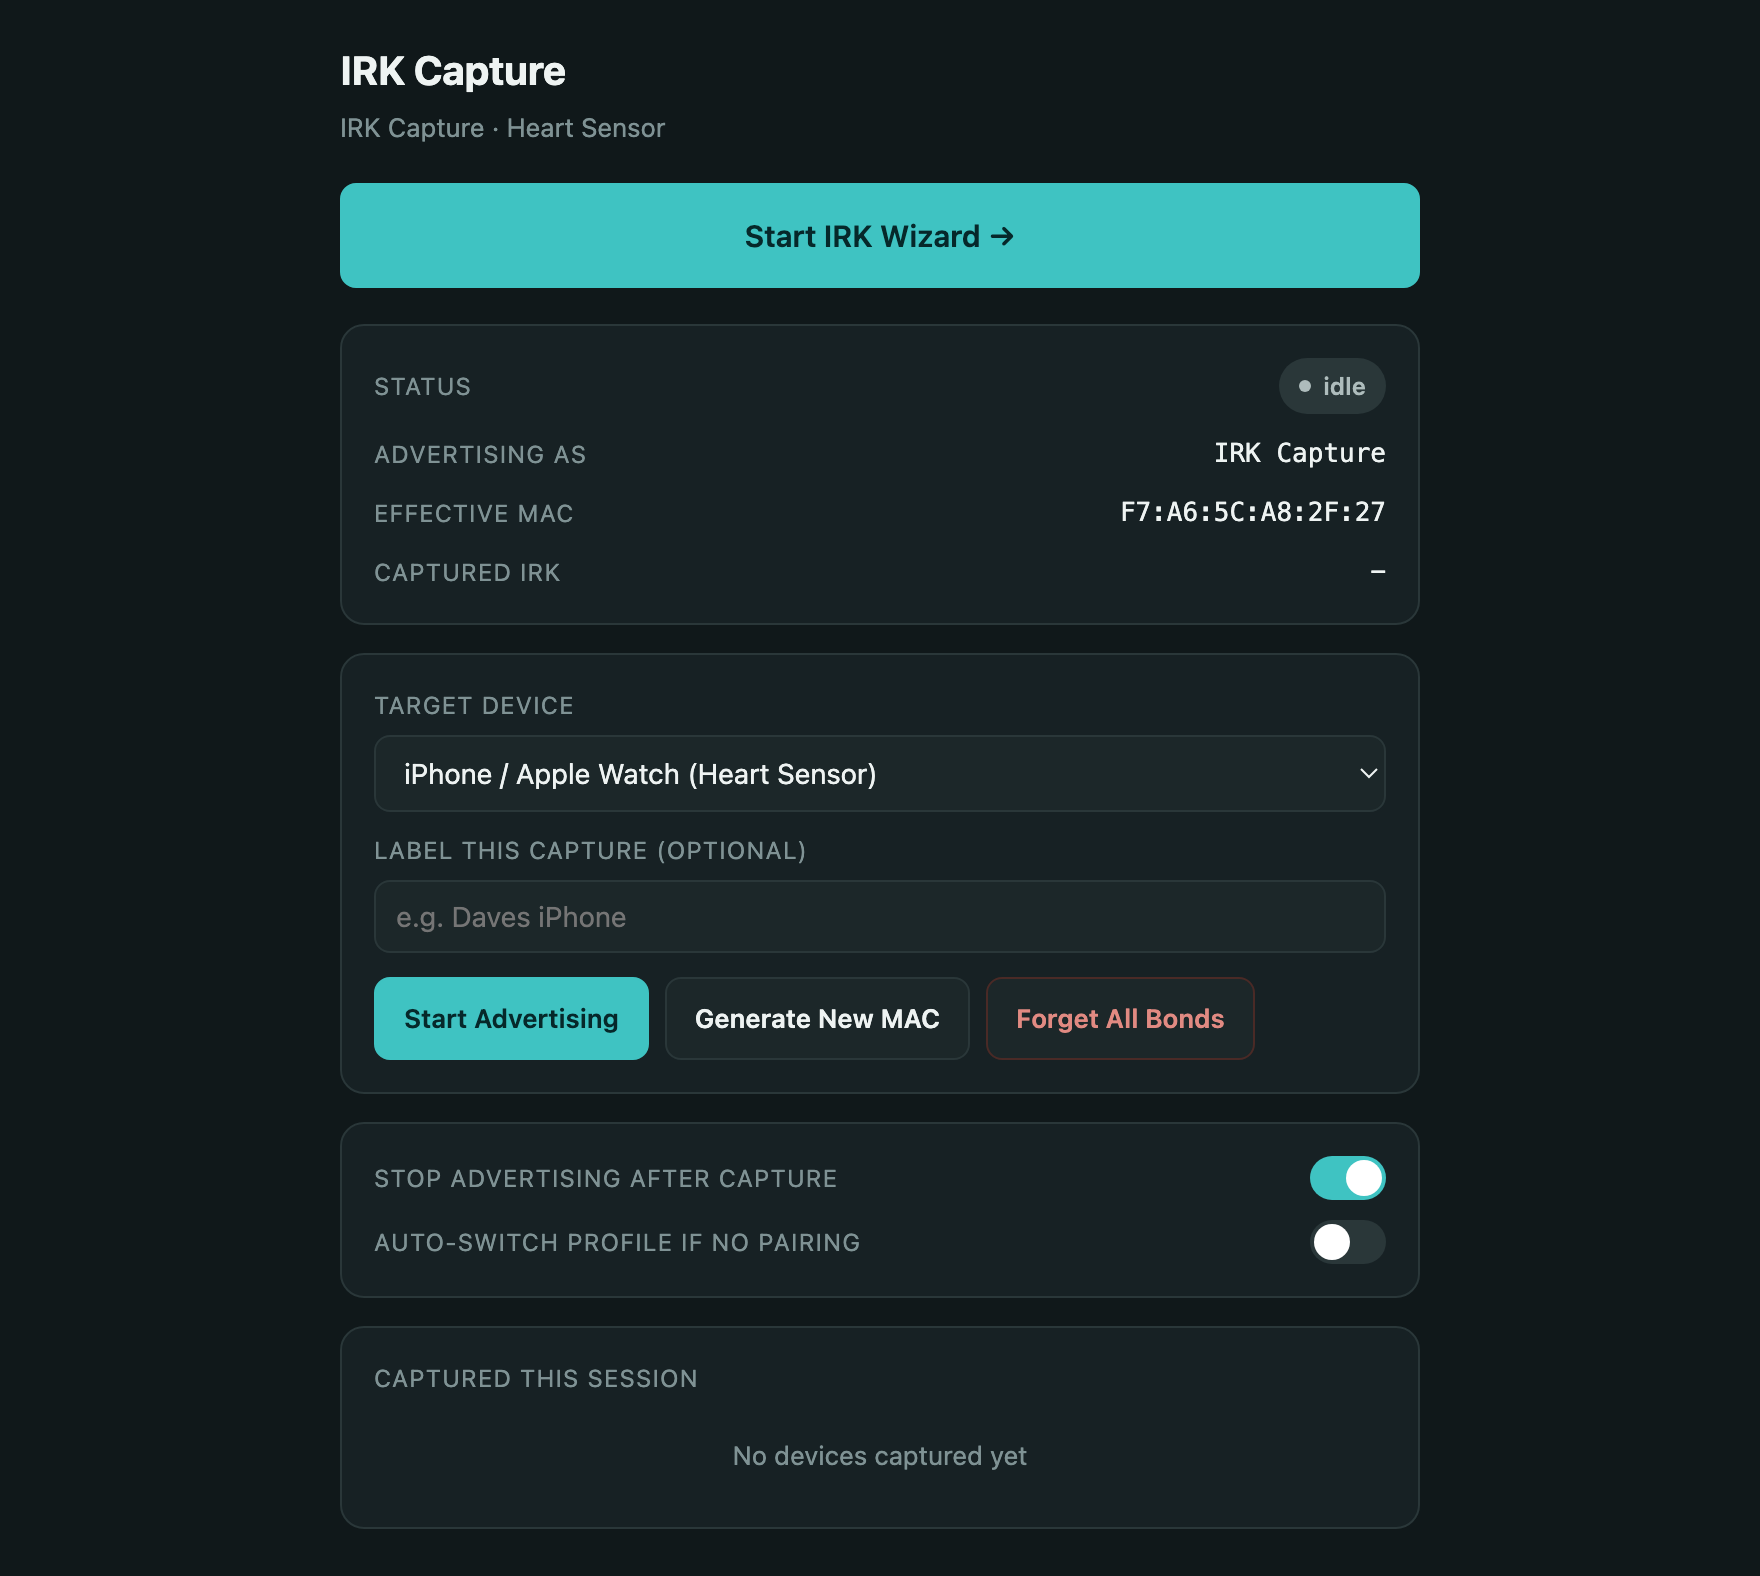
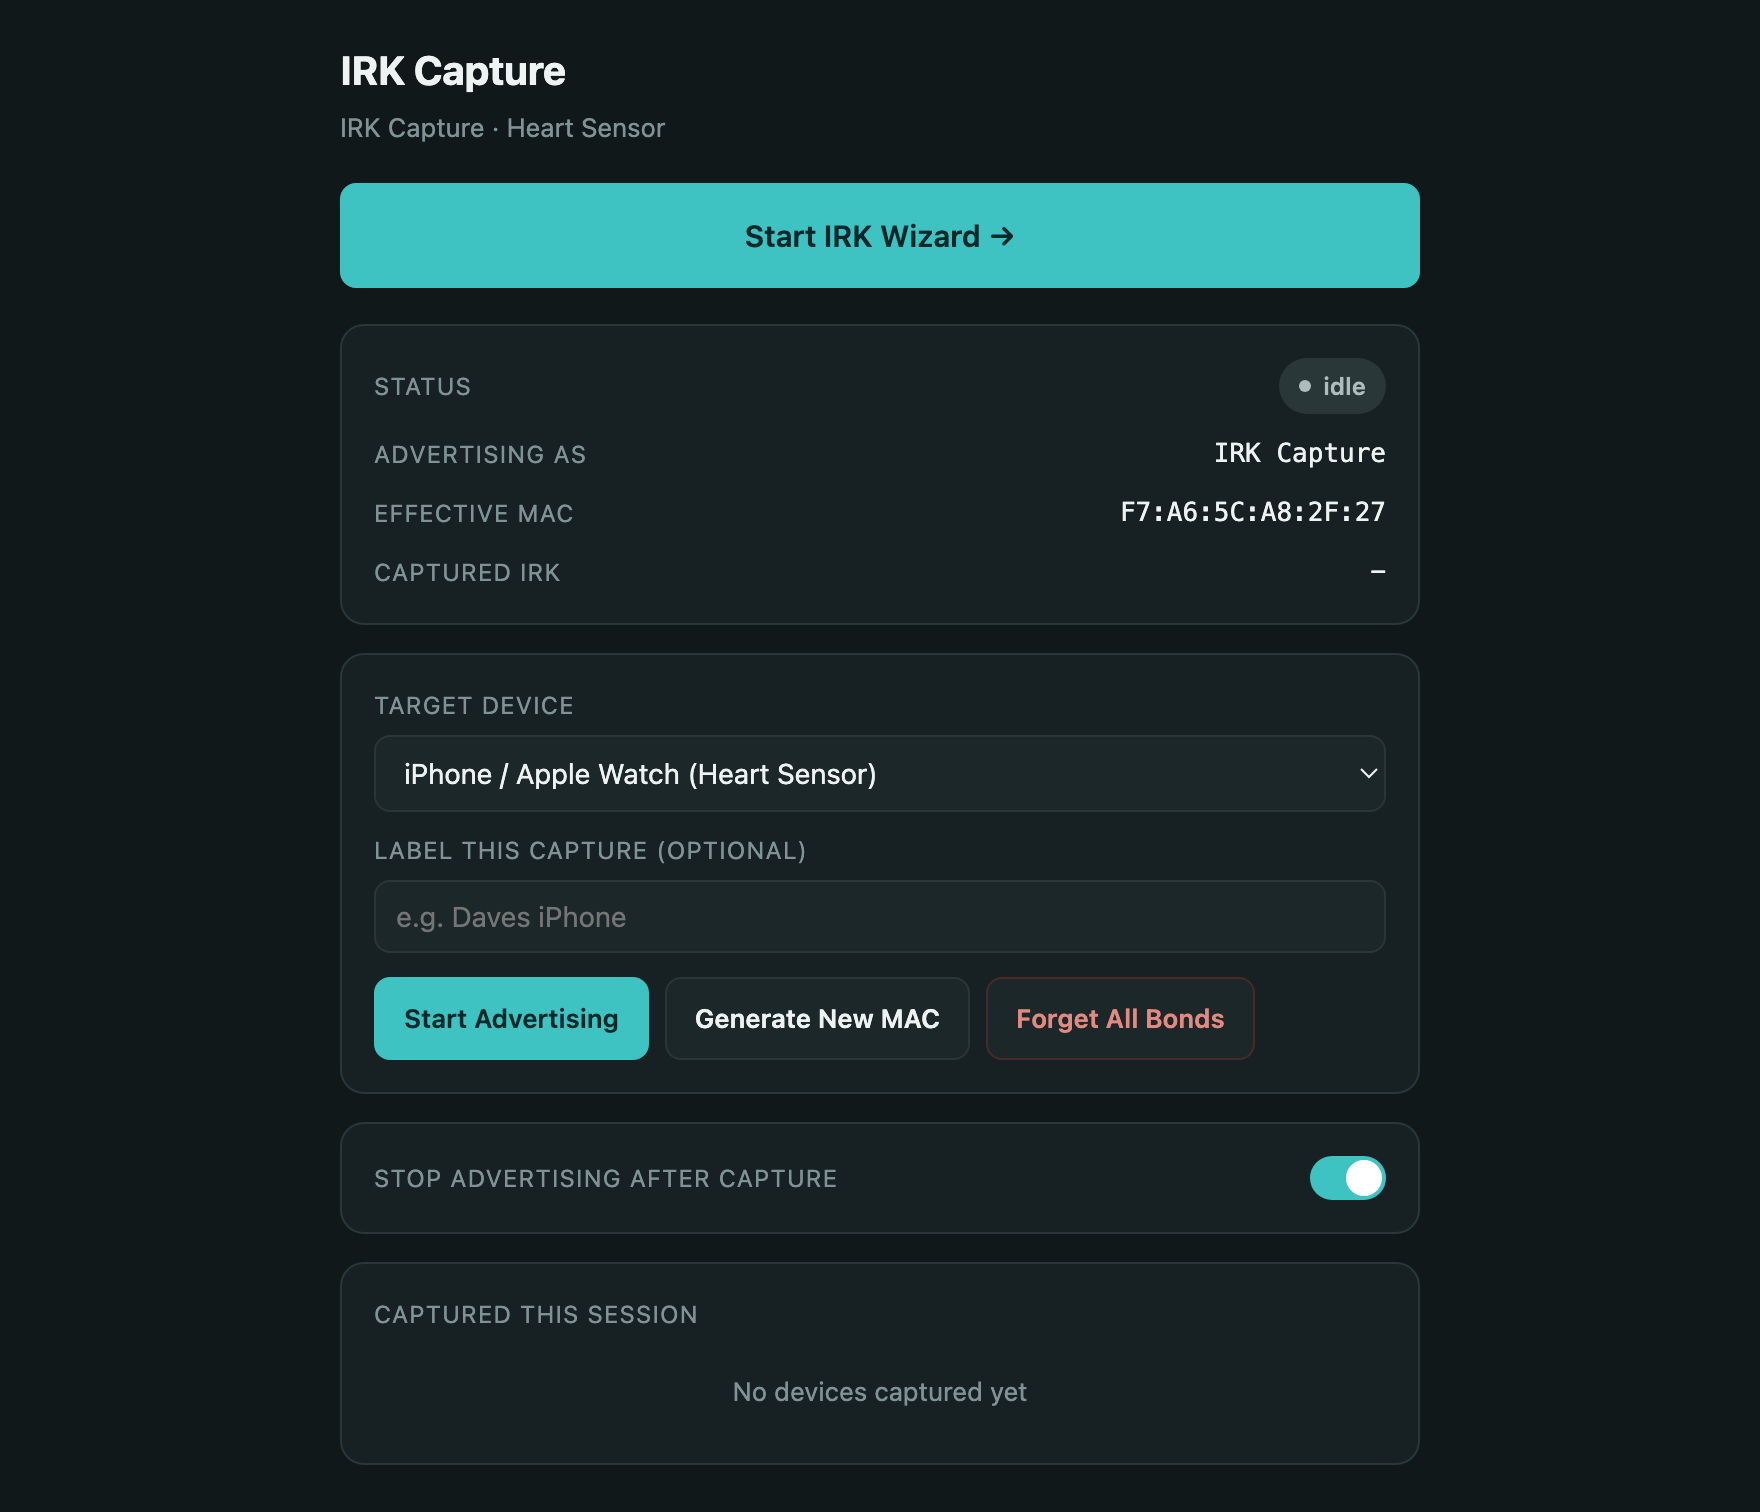
Fix the capture list never rendering, refresh screenshots
The device sends history as a JSON array, but the page passed it through
JSON.parse(), which throws on a non-string and was swallowed by the
surrounding try - so "Captured this session" stayed empty no matter what had
been captured. My preview stubs fed it a string, which is why it looked fine
there. It now takes the array as-is; checked in a real browser against a
two-entry list.

Screenshots regenerated from the current page (the old panel shot still
showed the removed auto-switch toggle). Key and addresses are placeholders.

diff --git a/components/irk_wizard/wizard_page.html b/components/irk_wizard/wizard_page.html
@@ -290,7 +290,8 @@ function render(d){
   el('stopAfterSwitch').classList.toggle('on', !!d.stop_after_capture);
 
   var history=[];
-  try{ history=JSON.parse(d.history||'[]'); }catch(e){}
+  // The device sends history as a real JSON array, not a string.
+  if(Array.isArray(d.history)) history=d.history;
   var histEl=el('history');
   histEl.textContent='';
   if(!history.length){
